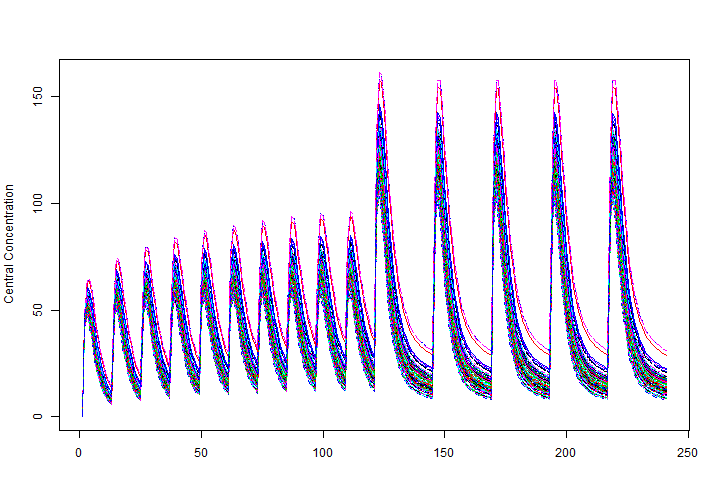
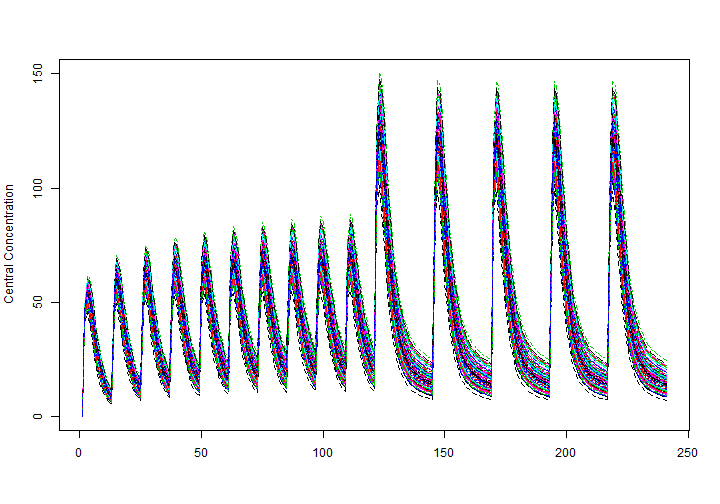
Remove covariates from default output

diff --git a/src/ode.h b/src/ode.h
@@ -1,2 +1,2 @@
-#define __HD_ODE__ "#include <R.h>\n#include <Rinternals.h>\n#include <Rmath.h>\n#include <R_ext/Rdynload.h>\n#define JAC_Rprintf Rprintf\n#define JAC0_Rprintf if (_jac_counter_val() == 0) Rprintf\n#define ODE_Rprintf Rprintf\n#define ODE0_Rprintf if (_dadt_counter_val() == 0) Rprintf\n#define LHS_Rprintf Rprintf\n#define max(a,b) (((a)>(b))?(a):(b))\n#define min(a,b) (((a)<(b))?(a):(b))\n\n// Types for par pointers.r\ntypedef void (*RxODE_update_par_ptr)(double t);\ntypedef double (*RxODE_transit3)(double t, double n, double mtt);\ntypedef double (*RxODE_fn) (double x);\ntypedef double (*RxODE_fn2) (double x, double y);\ntypedef double (*RxODE_transit4)(double t, double n, double mtt, double bio);\ntypedef double (*RxODE_vec) (int val);\ntypedef long (*RxODE_cnt) ();\ntypedef void (*RxODE_inc) ();\ntypedef double (*RxODE_val) ();\ntypedef SEXP (*RxODE_ode_solver) (SEXP sexp_theta, SEXP sexp_inits, SEXP sexp_lhs, SEXP sexp_time, SEXP sexp_evid,SEXP sexp_dose, SEXP sexp_pcov, SEXP sexp_cov, SEXP sexp_locf, SEXP sexp_atol, SEXP sexp_rtol, SEXP sexp_hmin, SEXP sexp_hmax, SEXP sexp_h0, SEXP sexp_mxordn, SEXP sexp_mxords, SEXP sexp_mx,SEXP sexp_stiff, SEXP sexp_transit_abs, SEXP sexp_object, SEXP sexp_extra_args, SEXP sexp_matrix);\ntypedef void (*RxODE_assign_fn_pointers)(void (*fun_dydt)(unsigned int, double, double *, double *),void (*fun_calc_lhs)(double, double *, double *),void (*fun_calc_jac)(unsigned int, double, double *, double *, unsigned int),void (*fun_update_inis)(SEXP _ini_sexp),int fun_jt,int fun_mf, int fun_debug);\n\ntypedef void (*RxODE_ode_solver_old_c)(int *neq,double *theta,double *time,int *evid,int *ntime,double *inits,double *dose,double *ret,double *atol,double *rtol,int *stiff,int *transit_abs,int *nlhs,double *lhs,int *rc);\ntypedef void (*RxODE_ode_solver_0_6_c)(int *neq,double *theta,double *time,int *evid,int *ntime,double *inits,double *dose,double *ret,double *atol,double *rtol,int *stiff,int *transit_abs,int *nlhs,double *lhs,int *rc,double hmin, double hmax,double h0,int mxordn,int mxords,int mxstep);\n\ntypedef double (*RxODE_solveLinB)(double t, int linCmt, int diff1, int diff2, double A, double alpha, double B, double beta, double C, double gamma, double ka, double tlag);\n// Give par pointers\nRxODE_vec _par_ptr, _InfusionRate;\nRxODE_update_par_ptr _update_par_ptr;\nRxODE_cnt _dadt_counter_val, _jac_counter_val;\nRxODE_inc _dadt_counter_inc, _jac_counter_inc;\nRxODE_val podo, tlast;\nRxODE_transit4 _transit4;\nRxODE_transit3 _transit3;\nRxODE_fn _safe_log, safe_zero, factorial, _as_zero, abs_log;\nRxODE_fn2 sign_exp;\nRxODE_assign_fn_pointers _assign_fn_pointers;\nRxODE_ode_solver_old_c _old_c;\nRxODE_ode_solver_0_6_c _c_0_6;\nRxODE_solveLinB solveLinB;\n\nextern void __ODE_SOLVER_PTR__();\n\n"
-#define __HD_SOLVE__ "extern void __ODE_SOLVER__(\n                    int *neq,\n                    double *theta,      //order:\n                    double *time,\n                    int *evid,\n                    int *ntime,\n                    double *inits,\n                    double *dose,\n                    double *ret,\n                    double *atol,\n                    double *rtol,\n                    int *stiff,\n                    int *transit_abs,\n                    int *nlhs,\n                    double *lhs,\n                    int *rc\n                    ){\n  // Backward compatible ode solver for 0.5* C interface\n  __ODE_SOLVER_PTR__();\n  _old_c(neq, theta, time, evid, ntime, inits, dose, ret, atol, rtol, stiff, transit_abs, nlhs, lhs, rc);\n}\n\nvoid __ODE_SOLVER_0_6__(int *neq,\n                        double *theta,  //order:\n                        double *time,\n                        int *evid,\n                        int *ntime,\n                        double *inits,\n                        double *dose,\n                        double *ret,\n                        double *atol,\n                        double *rtol,\n                        int *stiff,\n                        int *transit_abs,\n                        int *nlhs,\n                        double *lhs,\n                        int *rc,\n                        double hmin,\n                        double hmax,\n                        double h0,\n                        int mxordn,\n                        int mxords,\n                        int mxstep) {\n  // Backward compatible ode solver for 0.5* C interface\n  __ODE_SOLVER_PTR__();\n  _c_0_6(neq, theta, time, evid, ntime, inits, dose, ret, atol, rtol, stiff, transit_abs, nlhs, lhs, rc,\n	hmin, hmax, h0, mxordn, mxords, mxstep);\n}\n\nextern void __ODE_SOLVER_PTR__  (){\n  _assign_fn_pointers(__DYDT__ , __CALC_LHS__ , __CALC_JAC__, __INIS__, __JT__ , __MF__,\n#ifdef __DEBUG__\n                      1\n#else\n                      0\n#endif\n                      );\n}\n\nextern SEXP __ODE_SOLVER_SEXP__ (// Parameters\n                                 SEXP sexp_theta,\n                                 SEXP sexp_inits,\n                                 SEXP sexp_lhs,\n				 // Events\n				 SEXP sexp_time,\n				 SEXP sexp_evid,\n				 SEXP sexp_dose,\n				 // Covariates\n				 SEXP sexp_pcov,\n				 SEXP sexp_cov,\n				 SEXP sexp_locf,\n				 // Solver Options\n				 SEXP sexp_atol,\n				 SEXP sexp_rtol,\n				 SEXP sexp_hmin,\n				 SEXP sexp_hmax,\n				 SEXP sexp_h0,\n				 SEXP sexp_mxordn,\n				 SEXP sexp_mxords,\n				 SEXP sexp_mx,\n				 SEXP sexp_stiff,\n				 SEXP sexp_transit_abs,\n				 // Object Creation\n				 SEXP sexp_object,\n				 SEXP sexp_extra_args,\n				 SEXP sexp_matrix){\n  __ODE_SOLVER_PTR__();\n  RxODE_ode_solver ode_solver = (RxODE_ode_solver) R_GetCCallable(\"RxODE\",\"RxODE_ode_solver\");\n  ode_solver(sexp_theta,sexp_inits,sexp_lhs,sexp_time,sexp_evid,sexp_dose,sexp_pcov,sexp_cov,sexp_locf,sexp_atol,\n	      sexp_rtol,sexp_hmin,sexp_hmax,sexp_h0,sexp_mxordn,sexp_mxords,sexp_mx,sexp_stiff,sexp_transit_abs,\n	      sexp_object,sexp_extra_args,sexp_matrix);\n}\n\n//Initilize the dll to match RxODE's calls\nvoid __R_INIT__ (DllInfo *info){\n  // Get the RxODE calling interfaces\n  _InfusionRate   = (RxODE_vec) R_GetCCallable(\"RxODE\",\"RxODE_InfusionRate\");\n  _update_par_ptr = (RxODE_update_par_ptr) R_GetCCallable(\"RxODE\",\"RxODE_update_par_ptr\");\n  _par_ptr = (RxODE_vec) R_GetCCallable(\"RxODE\",\"RxODE_par_ptr\");\n  _dadt_counter_val = (RxODE_cnt) R_GetCCallable(\"RxODE\",\"RxODE_dadt_counter_val\");\n  _jac_counter_val  = (RxODE_cnt) R_GetCCallable(\"RxODE\",\"RxODE_jac_counter_val\");\n  _dadt_counter_inc = (RxODE_inc) R_GetCCallable(\"RxODE\",\"RxODE_dadt_counter_inc\");\n  _jac_counter_inc  = (RxODE_inc) R_GetCCallable(\"RxODE\",\"RxODE_jac_counter_inc\");\n  podo  = (RxODE_val) R_GetCCallable(\"RxODE\",\"RxODE_podo\");\n  tlast = (RxODE_val) R_GetCCallable(\"RxODE\",\"RxODE_tlast\");\n  factorial=(RxODE_fn) R_GetCCallable(\"RxODE\",\"RxODE_factorial\");\n  _transit3 = (RxODE_transit3) R_GetCCallable(\"RxODE\",\"RxODE_transit3\");\n  _transit4 = (RxODE_transit4) R_GetCCallable(\"RxODE\",\"RxODE_transit4\");\n  _safe_log =(RxODE_fn) R_GetCCallable(\"RxODE\",\"RxODE_safe_log\");\n  safe_zero =(RxODE_fn) R_GetCCallable(\"RxODE\",\"RxODE_safe_zero\");\n  _as_zero = (RxODE_fn) R_GetCCallable(\"RxODE\",\"RxODE_as_zero\");\n  _assign_fn_pointers=(RxODE_assign_fn_pointers) R_GetCCallable(\"RxODE\",\"RxODE_assign_fn_pointers\");\n  _old_c = (RxODE_ode_solver_old_c) R_GetCCallable(\"RxODE\",\"RxODE_ode_solver_old_c\");\n  _c_0_6 = (RxODE_ode_solver_0_6_c)R_GetCCallable(\"RxODE\",\"RxODE_ode_solver_0_6_c\");\n  sign_exp = (RxODE_fn2) R_GetCCallable(\"RxODE\",\"RxODE_sign_exp\");\n  abs_log = (RxODE_fn) R_GetCCallable(\"RxODE\",\"RxODE_abs_log\");\n  solveLinB = (RxODE_solveLinB) R_GetCCallable(\"RxODE\",\"RxODE_solveLinB\");\n  // Register the outside functions\n  R_RegisterCCallable(__LIB_STR__,__ODE_SOLVER_STR__,       (DL_FUNC) __ODE_SOLVER__);\n  R_RegisterCCallable(__LIB_STR__,__ODE_SOLVER_SEXP_STR__,  (DL_FUNC) __ODE_SOLVER_SEXP__);\n  R_RegisterCCallable(__LIB_STR__,__ODE_SOLVER_0_6_STR__,   (DL_FUNC) __ODE_SOLVER_0_6__);\n  R_RegisterCCallable(__LIB_STR__,__ODE_SOLVER_PTR_STR__,   (DL_FUNC) __ODE_SOLVER_PTR__);\n\n  /* R_CallMethodDef callMethods[]  = { */\n  /*   {__ODE_SOLVER_PTR_STR__, (DL_FUNC) &__ODE_SOLVER_PTR__, 0}, */\n  /*   {__ODE_SOLVER_SEXP_STR__, (DL_FUNC) &__ODE_SOLVER_SEXP__, 21}, */\n  /*   {NULL, NULL, 0} */\n  /* }; */\n  R_registerRoutines(info, NULL, NULL, NULL, NULL);\n  R_useDynamicSymbols(info,TRUE);\n  // Register the function pointers so if someone directly calls the\n  // ode solvers directly, they use the last loaded RxODE model.\n  __ODE_SOLVER_PTR__();\n}\n"
+#define __HD_ODE__ "#include <R.h>\n#include <Rinternals.h>\n#include <Rmath.h>\n#include <R_ext/Rdynload.h>\n#define JAC_Rprintf Rprintf\n#define JAC0_Rprintf if (_jac_counter_val() == 0) Rprintf\n#define ODE_Rprintf Rprintf\n#define ODE0_Rprintf if (_dadt_counter_val() == 0) Rprintf\n#define LHS_Rprintf Rprintf\n#define max(a,b) (((a)>(b))?(a):(b))\n#define min(a,b) (((a)<(b))?(a):(b))\n\n// Types for par pointers.r\ntypedef void (*RxODE_update_par_ptr)(double t);\ntypedef double (*RxODE_transit3)(double t, double n, double mtt);\ntypedef double (*RxODE_fn) (double x);\ntypedef double (*RxODE_fn2) (double x, double y);\ntypedef double (*RxODE_transit4)(double t, double n, double mtt, double bio);\ntypedef double (*RxODE_vec) (int val);\ntypedef long (*RxODE_cnt) ();\ntypedef void (*RxODE_inc) ();\ntypedef double (*RxODE_val) ();\ntypedef SEXP (*RxODE_ode_solver) (SEXP sexp_theta, SEXP sexp_inits, SEXP sexp_lhs, SEXP sexp_time, SEXP sexp_evid,SEXP sexp_dose, SEXP sexp_pcov, SEXP sexp_cov, SEXP sexp_locf, SEXP sexp_atol, SEXP sexp_rtol, SEXP sexp_hmin, SEXP sexp_hmax, SEXP sexp_h0, SEXP sexp_mxordn, SEXP sexp_mxords, SEXP sexp_mx,SEXP sexp_stiff, SEXP sexp_transit_abs, SEXP sexp_object, SEXP sexp_extra_args, SEXP sexp_matrix, SEXP sexp_add_cov);\ntypedef void (*RxODE_assign_fn_pointers)(void (*fun_dydt)(unsigned int, double, double *, double *),void (*fun_calc_lhs)(double, double *, double *),void (*fun_calc_jac)(unsigned int, double, double *, double *, unsigned int),void (*fun_update_inis)(SEXP _ini_sexp),int fun_jt,int fun_mf, int fun_debug);\n\ntypedef void (*RxODE_ode_solver_old_c)(int *neq,double *theta,double *time,int *evid,int *ntime,double *inits,double *dose,double *ret,double *atol,double *rtol,int *stiff,int *transit_abs,int *nlhs,double *lhs,int *rc);\ntypedef void (*RxODE_ode_solver_0_6_c)(int *neq,double *theta,double *time,int *evid,int *ntime,double *inits,double *dose,double *ret,double *atol,double *rtol,int *stiff,int *transit_abs,int *nlhs,double *lhs,int *rc,double hmin, double hmax,double h0,int mxordn,int mxords,int mxstep);\n\ntypedef double (*RxODE_solveLinB)(double t, int linCmt, int diff1, int diff2, double A, double alpha, double B, double beta, double C, double gamma, double ka, double tlag);\n// Give par pointers\nRxODE_vec _par_ptr, _InfusionRate;\nRxODE_update_par_ptr _update_par_ptr;\nRxODE_cnt _dadt_counter_val, _jac_counter_val;\nRxODE_inc _dadt_counter_inc, _jac_counter_inc;\nRxODE_val podo, tlast;\nRxODE_transit4 _transit4;\nRxODE_transit3 _transit3;\nRxODE_fn _safe_log, safe_zero, factorial, _as_zero, abs_log;\nRxODE_fn2 sign_exp;\nRxODE_assign_fn_pointers _assign_fn_pointers;\nRxODE_ode_solver_old_c _old_c;\nRxODE_ode_solver_0_6_c _c_0_6;\nRxODE_solveLinB solveLinB;\n\nextern void __ODE_SOLVER_PTR__();\n\n"
+#define __HD_SOLVE__ "extern void __ODE_SOLVER__(\n                    int *neq,\n                    double *theta,      //order:\n                    double *time,\n                    int *evid,\n                    int *ntime,\n                    double *inits,\n                    double *dose,\n                    double *ret,\n                    double *atol,\n                    double *rtol,\n                    int *stiff,\n                    int *transit_abs,\n                    int *nlhs,\n                    double *lhs,\n                    int *rc\n                    ){\n  // Backward compatible ode solver for 0.5* C interface\n  __ODE_SOLVER_PTR__();\n  _old_c(neq, theta, time, evid, ntime, inits, dose, ret, atol, rtol, stiff, transit_abs, nlhs, lhs, rc);\n}\n\nvoid __ODE_SOLVER_0_6__(int *neq,\n                        double *theta,  //order:\n                        double *time,\n                        int *evid,\n                        int *ntime,\n                        double *inits,\n                        double *dose,\n                        double *ret,\n                        double *atol,\n                        double *rtol,\n                        int *stiff,\n                        int *transit_abs,\n                        int *nlhs,\n                        double *lhs,\n                        int *rc,\n                        double hmin,\n                        double hmax,\n                        double h0,\n                        int mxordn,\n                        int mxords,\n                        int mxstep) {\n  // Backward compatible ode solver for 0.5* C interface\n  __ODE_SOLVER_PTR__();\n  _c_0_6(neq, theta, time, evid, ntime, inits, dose, ret, atol, rtol, stiff, transit_abs, nlhs, lhs, rc,\n	hmin, hmax, h0, mxordn, mxords, mxstep);\n}\n\nextern void __ODE_SOLVER_PTR__  (){\n  _assign_fn_pointers(__DYDT__ , __CALC_LHS__ , __CALC_JAC__, __INIS__, __JT__ , __MF__,\n#ifdef __DEBUG__\n                      1\n#else\n                      0\n#endif\n                      );\n}\n\nextern SEXP __ODE_SOLVER_SEXP__ (// Parameters\n                                 SEXP sexp_theta,\n                                 SEXP sexp_inits,\n                                 SEXP sexp_lhs,\n				 // Events\n				 SEXP sexp_time,\n				 SEXP sexp_evid,\n				 SEXP sexp_dose,\n				 // Covariates\n				 SEXP sexp_pcov,\n				 SEXP sexp_cov,\n				 SEXP sexp_locf,\n				 // Solver Options\n				 SEXP sexp_atol,\n				 SEXP sexp_rtol,\n				 SEXP sexp_hmin,\n				 SEXP sexp_hmax,\n				 SEXP sexp_h0,\n				 SEXP sexp_mxordn,\n				 SEXP sexp_mxords,\n				 SEXP sexp_mx,\n				 SEXP sexp_stiff,\n				 SEXP sexp_transit_abs,\n				 // Object Creation\n				 SEXP sexp_object,\n				 SEXP sexp_extra_args,\n				 SEXP sexp_matrix,\n				 SEXP sexp_add_cov){\n  __ODE_SOLVER_PTR__();\n  RxODE_ode_solver ode_solver = (RxODE_ode_solver) R_GetCCallable(\"RxODE\",\"RxODE_ode_solver\");\n  ode_solver(sexp_theta,sexp_inits,sexp_lhs,sexp_time,sexp_evid,sexp_dose,sexp_pcov,sexp_cov,sexp_locf,sexp_atol,\n	      sexp_rtol,sexp_hmin,sexp_hmax,sexp_h0,sexp_mxordn,sexp_mxords,sexp_mx,sexp_stiff,sexp_transit_abs,\n	     sexp_object,sexp_extra_args,sexp_matrix,sexp_add_cov);\n}\n\n//Initilize the dll to match RxODE's calls\nvoid __R_INIT__ (DllInfo *info){\n  // Get the RxODE calling interfaces\n  _InfusionRate   = (RxODE_vec) R_GetCCallable(\"RxODE\",\"RxODE_InfusionRate\");\n  _update_par_ptr = (RxODE_update_par_ptr) R_GetCCallable(\"RxODE\",\"RxODE_update_par_ptr\");\n  _par_ptr = (RxODE_vec) R_GetCCallable(\"RxODE\",\"RxODE_par_ptr\");\n  _dadt_counter_val = (RxODE_cnt) R_GetCCallable(\"RxODE\",\"RxODE_dadt_counter_val\");\n  _jac_counter_val  = (RxODE_cnt) R_GetCCallable(\"RxODE\",\"RxODE_jac_counter_val\");\n  _dadt_counter_inc = (RxODE_inc) R_GetCCallable(\"RxODE\",\"RxODE_dadt_counter_inc\");\n  _jac_counter_inc  = (RxODE_inc) R_GetCCallable(\"RxODE\",\"RxODE_jac_counter_inc\");\n  podo  = (RxODE_val) R_GetCCallable(\"RxODE\",\"RxODE_podo\");\n  tlast = (RxODE_val) R_GetCCallable(\"RxODE\",\"RxODE_tlast\");\n  factorial=(RxODE_fn) R_GetCCallable(\"RxODE\",\"RxODE_factorial\");\n  _transit3 = (RxODE_transit3) R_GetCCallable(\"RxODE\",\"RxODE_transit3\");\n  _transit4 = (RxODE_transit4) R_GetCCallable(\"RxODE\",\"RxODE_transit4\");\n  _safe_log =(RxODE_fn) R_GetCCallable(\"RxODE\",\"RxODE_safe_log\");\n  safe_zero =(RxODE_fn) R_GetCCallable(\"RxODE\",\"RxODE_safe_zero\");\n  _as_zero = (RxODE_fn) R_GetCCallable(\"RxODE\",\"RxODE_as_zero\");\n  _assign_fn_pointers=(RxODE_assign_fn_pointers) R_GetCCallable(\"RxODE\",\"RxODE_assign_fn_pointers\");\n  _old_c = (RxODE_ode_solver_old_c) R_GetCCallable(\"RxODE\",\"RxODE_ode_solver_old_c\");\n  _c_0_6 = (RxODE_ode_solver_0_6_c)R_GetCCallable(\"RxODE\",\"RxODE_ode_solver_0_6_c\");\n  sign_exp = (RxODE_fn2) R_GetCCallable(\"RxODE\",\"RxODE_sign_exp\");\n  abs_log = (RxODE_fn) R_GetCCallable(\"RxODE\",\"RxODE_abs_log\");\n  solveLinB = (RxODE_solveLinB) R_GetCCallable(\"RxODE\",\"RxODE_solveLinB\");\n  // Register the outside functions\n  R_RegisterCCallable(__LIB_STR__,__ODE_SOLVER_STR__,       (DL_FUNC) __ODE_SOLVER__);\n  R_RegisterCCallable(__LIB_STR__,__ODE_SOLVER_SEXP_STR__,  (DL_FUNC) __ODE_SOLVER_SEXP__);\n  R_RegisterCCallable(__LIB_STR__,__ODE_SOLVER_0_6_STR__,   (DL_FUNC) __ODE_SOLVER_0_6__);\n  R_RegisterCCallable(__LIB_STR__,__ODE_SOLVER_PTR_STR__,   (DL_FUNC) __ODE_SOLVER_PTR__);\n\n  /* R_CallMethodDef callMethods[]  = { */\n  /*   {__ODE_SOLVER_PTR_STR__, (DL_FUNC) &__ODE_SOLVER_PTR__, 0}, */\n  /*   {__ODE_SOLVER_SEXP_STR__, (DL_FUNC) &__ODE_SOLVER_SEXP__, 21}, */\n  /*   {NULL, NULL, 0} */\n  /* }; */\n  R_registerRoutines(info, NULL, NULL, NULL, NULL);\n  R_useDynamicSymbols(info,TRUE);\n  // Register the function pointers so if someone directly calls the\n  // ode solvers directly, they use the last loaded RxODE model.\n  __ODE_SOLVER_PTR__();\n}\n"

diff --git a/src/call_dvode.c b/src/call_dvode.c
@@ -2,7 +2,6 @@
 #include <stdlib.h>
 #include "dop853.h"
 #define max(a, b) ((a) > (b) ? (a) : (b))
-#define RLEN (neq+nlhs+ncov+1)
 #include <R.h>
 #include <Rinternals.h>
 #include <Rmath.h> //Rmath includes math.
@@ -766,7 +765,8 @@ SEXP RxODE_ode_solver (// Parameters
 		       // Object Creation
 		       SEXP sexp_object,
 		       SEXP sexp_extra_args,
-		       SEXP sexp_matrix){
+		       SEXP sexp_matrix,
+		       SEXP sexp_add_cov){
   // TODO: Absorption lag?
   // TODO: Annotation? -- in nlmixr
   // TODO: Units -- Can be in nlmixr
@@ -791,8 +791,9 @@ SEXP RxODE_ode_solver (// Parameters
     RxODE_ode_solver_c(neq, stiff, evid, inits, dose, solve, rc);
   }
   double *scale = REAL(sexp_scale);
+  int add_cov = INTEGER(sexp_add_cov)[0];
   if (matrix[0]){
-    SEXP sexp_ret     = PROTECT(allocMatrix(REALSXP, nObs(), ncov+1+neq+nlhs)); pro++;
+    SEXP sexp_ret     = PROTECT(allocMatrix(REALSXP, nObs(), add_cov*ncov+1+neq+nlhs)); pro++;
     double *ret   = REAL(sexp_ret);
   
     // Now create the matrix.
@@ -815,7 +816,7 @@ SEXP RxODE_ode_solver (// Parameters
           }
         }
         // Cov
-        if (ncov > 0){
+        if (add_cov*ncov > 0){
           for (j = 0; j < ncov; j++){
             ret[nObs()*(j+1+neq+nlhs)+ii] = cov_ptr[j*nAllTimes()+i];
           }
@@ -825,7 +826,7 @@ SEXP RxODE_ode_solver (// Parameters
     }
     SEXP sexp_dimnames = PROTECT(allocVector(VECSXP,2));pro++;
     SET_VECTOR_ELT(sexp_dimnames, 0, R_NilValue);
-    SEXP sexp_colnames = PROTECT(allocVector(STRSXP,1+neq+nlhs+ncov)); pro++;
+    SEXP sexp_colnames = PROTECT(allocVector(STRSXP,1+neq+nlhs+add_cov*ncov)); pro++;
     SET_STRING_ELT(sexp_colnames, 0, mkChar("time"));
     SEXP temp = getAttrib(sexp_inits, R_NamesSymbol);
     for (i = 0; i < neq; i++){
@@ -835,7 +836,7 @@ SEXP RxODE_ode_solver (// Parameters
       SET_STRING_ELT(sexp_colnames,1+neq+i, STRING_ELT(sexp_lhs,i));
     }
     temp = getAttrib(sexp_theta,R_NamesSymbol);
-    for (i = 0; i < ncov; i++){
+    for (i = 0; i < add_cov*ncov; i++){
       SET_STRING_ELT(sexp_colnames,1+neq+nlhs+i, STRING_ELT(temp, par_cov[i]-1));
     }
     SET_VECTOR_ELT(sexp_dimnames,1,sexp_colnames);
@@ -851,7 +852,7 @@ SEXP RxODE_ode_solver (// Parameters
     RxODE_ode_free();
     return sexp_solve2;
   } else {
-    int ncols =ncov+1+neq+nlhs,
+    int ncols =add_cov*ncov+1+neq+nlhs,
       nobs =nObs(),
       ntimes = nAllTimes();
     SEXP df = PROTECT(allocVector(VECSXP,ncols)); pro++;
@@ -882,8 +883,8 @@ SEXP RxODE_ode_solver (// Parameters
           }
         }
         // Cov
-        if (ncov > 0){
-          for (j = 0; j < ncov; j++){
+        if (add_cov*ncov > 0){
+          for (j = 0; j < add_cov*ncov; j++){
 	    dfp = REAL(VECTOR_ELT(df, j+1+neq+nlhs));
             dfp[ii] = cov_ptr[j*nAllTimes()+i];
           }
@@ -891,8 +892,8 @@ SEXP RxODE_ode_solver (// Parameters
         ii++;
       }
     }
-    SEXP sexp_solve    = PROTECT(allocVector(REALSXP,1+neq+nlhs+ncov)); pro++;
-    SEXP sexp_colnames = PROTECT(allocVector(STRSXP,1+neq+nlhs+ncov)); pro++;
+    SEXP sexp_solve    = PROTECT(allocVector(REALSXP,1+neq+nlhs+ncov*add_cov)); pro++;
+    SEXP sexp_colnames = PROTECT(allocVector(STRSXP,1+neq+nlhs+ncov*add_cov)); pro++;
     SEXP sexp_rownames = PROTECT(allocVector(INTSXP,2)); pro++;
     SEXP temp = getAttrib(sexp_inits, R_NamesSymbol);
     SET_STRING_ELT(sexp_colnames, 0, mkChar("time"));
@@ -907,7 +908,7 @@ SEXP RxODE_ode_solver (// Parameters
       solver[1+neq+i] = NA_REAL;
     }
     temp = getAttrib(sexp_theta,R_NamesSymbol);
-    for (i = 0; i < ncov; i++){
+    for (i = 0; i < ncov*add_cov; i++){
       SET_STRING_ELT(sexp_colnames,1+neq+nlhs+i, STRING_ELT(temp, par_cov[i]-1));
       solver[1+neq+nlhs+i] = NA_REAL;
     }
@@ -1050,7 +1051,7 @@ SEXP _RxODE_W_Cpp(SEXP zSEXP, SEXP branchSEXP);
 double solveLinB(double t, int linCmt, int diff1, int diff2, double A, double alpha, double B, double beta, double C, double gamma, double ka, double tlag);
 void R_init_RxODE(DllInfo *info){
   R_CallMethodDef callMethods[]  = {
-    {"RxODE_ode_solver", (DL_FUNC) &RxODE_ode_solver, 23},
+    {"RxODE_ode_solver", (DL_FUNC) &RxODE_ode_solver, 24},
     {"_RxODE_rxInner", (DL_FUNC) &_RxODE_rxInner, 2},
     {"_RxODE_rxHessian", (DL_FUNC) &_RxODE_rxHessian, 1},
     {"_RxODE_RxODE_focei_eta_lik", (DL_FUNC) &_RxODE_RxODE_focei_eta_lik, 2},
@@ -1105,5 +1106,4 @@ void R_init_RxODE(DllInfo *info){
   R_RegisterCCallable("RxODE","RxODE_abs_log",          (DL_FUNC) RxODE_abs_log);
   R_RegisterCCallable("RxODE","RxODE_solveLinB",        (DL_FUNC) solveLinB);
 }
-
 

diff --git a/inst/ode.c b/inst/ode.c
@@ -20,7 +20,7 @@ typedef double (*RxODE_vec) (int val);
 typedef long (*RxODE_cnt) ();
 typedef void (*RxODE_inc) ();
 typedef double (*RxODE_val) ();
-typedef SEXP (*RxODE_ode_solver) (SEXP sexp_theta, SEXP sexp_inits, SEXP sexp_lhs, SEXP sexp_time, SEXP sexp_evid,SEXP sexp_dose, SEXP sexp_pcov, SEXP sexp_cov, SEXP sexp_locf, SEXP sexp_atol, SEXP sexp_rtol, SEXP sexp_hmin, SEXP sexp_hmax, SEXP sexp_h0, SEXP sexp_mxordn, SEXP sexp_mxords, SEXP sexp_mx,SEXP sexp_stiff, SEXP sexp_transit_abs, SEXP sexp_object, SEXP sexp_extra_args, SEXP sexp_matrix);
+typedef SEXP (*RxODE_ode_solver) (SEXP sexp_theta, SEXP sexp_inits, SEXP sexp_lhs, SEXP sexp_time, SEXP sexp_evid,SEXP sexp_dose, SEXP sexp_pcov, SEXP sexp_cov, SEXP sexp_locf, SEXP sexp_atol, SEXP sexp_rtol, SEXP sexp_hmin, SEXP sexp_hmax, SEXP sexp_h0, SEXP sexp_mxordn, SEXP sexp_mxords, SEXP sexp_mx,SEXP sexp_stiff, SEXP sexp_transit_abs, SEXP sexp_object, SEXP sexp_extra_args, SEXP sexp_matrix, SEXP sexp_add_cov);
 typedef void (*RxODE_assign_fn_pointers)(void (*fun_dydt)(unsigned int, double, double *, double *),void (*fun_calc_lhs)(double, double *, double *),void (*fun_calc_jac)(unsigned int, double, double *, double *, unsigned int),void (*fun_update_inis)(SEXP _ini_sexp),int fun_jt,int fun_mf, int fun_debug);
 
 typedef void (*RxODE_ode_solver_old_c)(int *neq,double *theta,double *time,int *evid,int *ntime,double *inits,double *dose,double *ret,double *atol,double *rtol,int *stiff,int *transit_abs,int *nlhs,double *lhs,int *rc);
@@ -129,12 +129,13 @@ extern SEXP __ODE_SOLVER_SEXP__ (// Parameters
 				 // Object Creation
 				 SEXP sexp_object,
 				 SEXP sexp_extra_args,
-				 SEXP sexp_matrix){
+				 SEXP sexp_matrix,
+				 SEXP sexp_add_cov){
   __ODE_SOLVER_PTR__();
   RxODE_ode_solver ode_solver = (RxODE_ode_solver) R_GetCCallable("RxODE","RxODE_ode_solver");
   ode_solver(sexp_theta,sexp_inits,sexp_lhs,sexp_time,sexp_evid,sexp_dose,sexp_pcov,sexp_cov,sexp_locf,sexp_atol,
 	      sexp_rtol,sexp_hmin,sexp_hmax,sexp_h0,sexp_mxordn,sexp_mxords,sexp_mx,sexp_stiff,sexp_transit_abs,
-	      sexp_object,sexp_extra_args,sexp_matrix);
+	     sexp_object,sexp_extra_args,sexp_matrix,sexp_add_cov);
 }
 
 //Initilize the dll to match RxODE's calls

diff --git a/README.md b/README.md
@@ -297,17 +297,9 @@ print(x)
 
 ```
 ## Solved RxODE object
-## Dll: C:\Users\fidlema3\AppData\Local\Temp\ep\RtmpYr2ddH\Rx_intro-1e206bc0b0/mod1.d/mod1_x64.dll
+## Dll: C:\Users\fidlema3\AppData\Local\Temp\ep\RtmpMdRtSj\Rx_intro-3d44fc95c5c/mod1.d/mod1_x64.dll
 ## 
 ## Parameters:
-```
-
-```
-## Warning: Installed Rcpp (0.12.12) different from Rcpp used to build dplyr (0.12.11).
-## Please reinstall dplyr to avoid random crashes or undefined behavior.
-```
-
-```
 ##      V2      V3      KA      CL       Q     Kin    Kout    EC50 
 ##  40.200 297.000   0.294  18.600  10.500   1.000   1.000 200.000 
 ## 
@@ -338,7 +330,7 @@ print(x)
 
 ```
 ## Solved RxODE object
-## Dll: C:\Users\fidlema3\AppData\Local\Temp\ep\RtmpYr2ddH\Rx_intro-1e206bc0b0/mod1.d/mod1_x64.dll
+## Dll: C:\Users\fidlema3\AppData\Local\Temp\ep\RtmpMdRtSj\Rx_intro-3d44fc95c5c/mod1.d/mod1_x64.dll
 ## 
 ## Parameters:
 ##      V2      V3      KA      CL       Q     Kin    Kout    EC50 
@@ -372,7 +364,7 @@ print(x)
 
 ```
 ## Solved RxODE object
-## Dll: C:\Users\fidlema3\AppData\Local\Temp\ep\RtmpYr2ddH\Rx_intro-1e206bc0b0/mod1.d/mod1_x64.dll
+## Dll: C:\Users\fidlema3\AppData\Local\Temp\ep\RtmpMdRtSj\Rx_intro-3d44fc95c5c/mod1.d/mod1_x64.dll
 ## 
 ## Parameters:
 ##      V2      V3      KA      CL       Q     Kin    Kout    EC50 
@@ -529,7 +521,7 @@ x
 
 ```
 ## Solved RxODE object
-## Dll: C:\Users\fidlema3\AppData\Local\Temp\ep\RtmpYr2ddH\Rx_intro-1e206bc0b0/mod1.d/mod1_x64.dll
+## Dll: C:\Users\fidlema3\AppData\Local\Temp\ep\RtmpMdRtSj\Rx_intro-3d44fc95c5c/mod1.d/mod1_x64.dll
 ## 
 ## Parameters:
 ##      V2      V3      KA      CL       Q     Kin    Kout    EC50 
@@ -573,7 +565,7 @@ x
 
 ```
 ## Solved RxODE object
-## Dll: C:\Users\fidlema3\AppData\Local\Temp\ep\RtmpYr2ddH\Rx_intro-1e206bc0b0/mod1.d/mod1_x64.dll
+## Dll: C:\Users\fidlema3\AppData\Local\Temp\ep\RtmpMdRtSj\Rx_intro-3d44fc95c5c/mod1.d/mod1_x64.dll
 ## 
 ## Parameters:
 ##      V2      V3      KA      CL       Q     Kin    Kout    EC50 
@@ -614,7 +606,7 @@ x
 
 ```
 ## Solved RxODE object
-## Dll: C:\Users\fidlema3\AppData\Local\Temp\ep\RtmpYr2ddH\Rx_intro-1e206bc0b0/mod1.d/mod1_x64.dll
+## Dll: C:\Users\fidlema3\AppData\Local\Temp\ep\RtmpMdRtSj\Rx_intro-3d44fc95c5c/mod1.d/mod1_x64.dll
 ## 
 ## Parameters:
 ##    V2    V3    KA    CL     Q   Kin  Kout  EC50 
@@ -665,12 +657,12 @@ head(theta.all)
 
 ```
 ##         KA       CL   V2    Q  V3 Kin Kout EC50
-## [1,] 0.294 24.64917 40.2 10.5 297   1    1  200
-## [2,] 0.294 17.88461 40.2 10.5 297   1    1  200
-## [3,] 0.294 14.43490 40.2 10.5 297   1    1  200
-## [4,] 0.294 21.46713 40.2 10.5 297   1    1  200
-## [5,] 0.294 17.43918 40.2 10.5 297   1    1  200
-## [6,] 0.294 19.05176 40.2 10.5 297   1    1  200
+## [1,] 0.294 18.86548 40.2 10.5 297   1    1  200
+## [2,] 0.294 17.51064 40.2 10.5 297   1    1  200
+## [3,] 0.294 21.09753 40.2 10.5 297   1    1  200
+## [4,] 0.294 22.09175 40.2 10.5 297   1    1  200
+## [5,] 0.294 16.48372 40.2 10.5 297   1    1  200
+## [6,] 0.294 17.53939 40.2 10.5 297   1    1  200
 ```
 
 Each subproblem can be simulated by using an explicit loop (or the `apply()`
